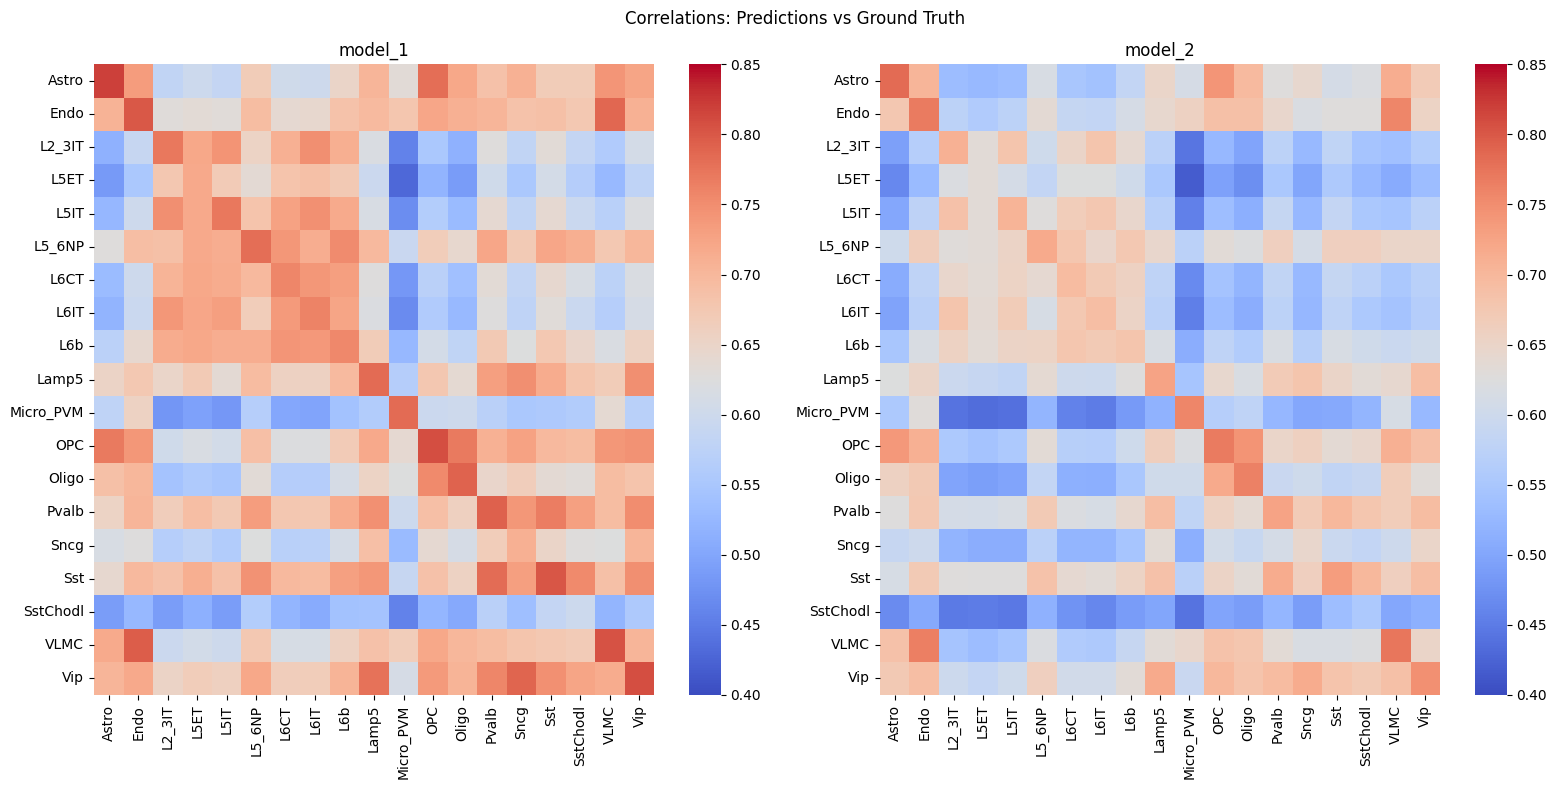
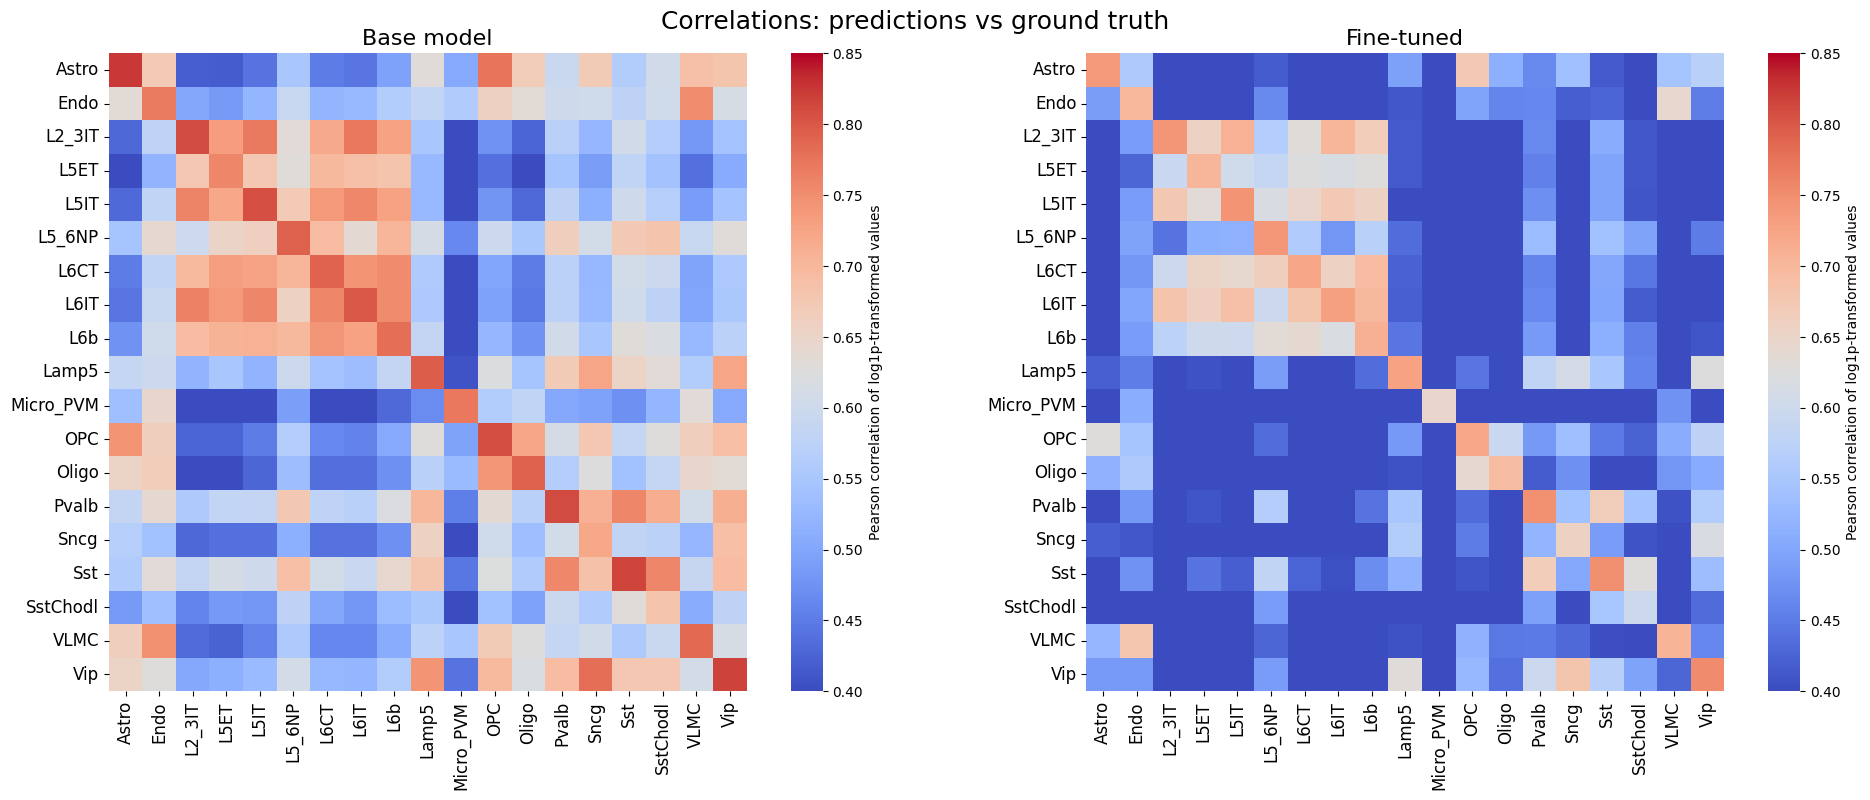
Update docstring examples & figures

diff --git a/src/crested/pl/plot_template.py b/src/crested/pl/plot_template.py
@@ -1,0 +1,82 @@
+from __future__ import annotations
+
+import matplotlib.pyplot as plt
+import numpy as np
+
+from crested.pl._utils import create_plot, render_plot
+from crested.utils._logging import log_and_raise
+
+
+def prediction(
+    prediction: np.ndarray,
+    classes: list[str],
+    plot_kws: dict | None = None,
+    ax: plt.Axes | None = None,
+    **kwargs,
+) -> tuple[plt.Figure, plt.Axes] | None:
+    """
+    Bar plot for a single prediction, comparing different classes.
+
+    Parameters
+    ----------
+    prediction
+        An array containing the prediction values for each class or cell type. It is squeezed to remove 1-wide dimensions if necessary.
+    classes
+        A list of class or cell type labels corresponding to the predictions.
+    plot_kws
+        Extra keyword arguments passed to :func:`~matplotlib.Axes.bar`. Defaults: `'alpha': 0.8`.
+    ax
+        Axis to plot values on. If not supplied, creates a figure from scratch.
+    width, height
+        Dimensions of the newly created figure if `ax=None`. Default is (18, 3).
+    kwargs
+        Additional arguments passed to :func:`~crested.pl.render_plot` to control the final plot output.
+        Please see :func:`~crested.pl.render_plot` for details.
+        Custom defaults for `prediction`: `xlabel='Cell types'`, `ylabel='Prediction'`, `grid="y"`.
+
+    See Also
+    --------
+    crested.pl.render_plot
+    crested.pl.bar.region
+    crested.pl.bar.region_predictions
+
+    Example
+    -------
+    >>> crested.pl.bar.prediction(
+    ...     pred,
+    ...     classes=list(adata.obs_names),
+    ...     title="Region chr1:3094805-3095305"
+    ... )
+    """
+    # Check inputs
+    @log_and_raise(ValueError)
+    def _check_input_params():
+        if len(prediction) != len(classes):
+            raise ValueError(
+                f"The length of prediction array ({len(prediction)}) must match the number of classes ({len(classes)})."
+            )
+
+    # Ensure the prediction array is 1-dimensional
+    prediction = prediction.squeeze()
+
+    _check_input_params()
+
+    # Set defaults
+    plot_width = kwargs.pop('width') if 'width' in kwargs else 18
+    plot_height = kwargs.pop('height') if 'height' in kwargs else 3
+    if 'xlabel' not in kwargs:
+        kwargs['xlabel'] = "Cell types"
+    if 'ylabel' not in kwargs:
+        kwargs['ylabel'] = "Prediction"
+    if 'grid' not in kwargs:
+        kwargs['grid'] = 'y'
+    plot_kws = {} if plot_kws is None else plot_kws.copy()
+    if 'alpha' not in plot_kws:
+        plot_kws['alpha'] = 0.8
+
+    # Create plot
+    fig, ax = create_plot(ax=ax, width=plot_width, height=plot_height)
+    ax.bar(classes, prediction, **plot_kws)
+
+    # Use render_plot to finalize and return the figure
+    return render_plot(fig, ax, **kwargs)

diff --git a/src/crested/pl/patterns/_enhancer_design.py b/src/crested/pl/patterns/_enhancer_design.py
@@ -144,6 +144,23 @@ def enhancer_design_steps_contribution_scores(
     kwargs
         Additional arguments passed to :func:`~crested.pl.render_plot` to control the final plot output.
         Please see :func:`~crested.pl.render_plot` for details.
+
+    See Also
+    --------
+    crested.pl.render_plot
+    crested.pl.patterns.contribution_scores
+
+    Example
+    --------
+    >>> crested.pl.patterns.enhancer_design_steps_contribution_scores(
+    ...     intermediate_results,
+    ...     scores,
+    ...     one_hot_encoded_sequences,
+    ...     labels=["L5ET"],
+    ...     highlight_kws={'facecolor': 'green', 'edgecolor': 'green', 'alpha': 0.1},
+    ... )
+
+    .. image:: ../../../../docs/_static/img/examples/patterns_enhancer_design_steps_contribution_scores.png
     """
     _check_ylim_params(global_ylim, ylim)
 
@@ -349,6 +366,21 @@ def enhancer_design_steps_predictions(
     kwargs
         Additional arguments passed to :func:`~crested.pl.render_plot` to control the final plot output.
         Please see :func:`~crested.pl.render_plot` for details.
+
+    See Also
+    --------
+    crested.pl.render_plot
+
+    Example
+    --------
+    >>> crested.pl.patterns.enhancer_design_steps_predictions(
+    ...     intermediate_results,
+    ...     target_classes="L5ET",
+    ...     obs_names=adata.obs_names,
+    ...     separate=True,
+    ... )
+
+    .. image:: ../../../../docs/_static/img/examples/patterns_enhancer_design_steps_predictions.png
     """
     if 'seperate' in kwargs:
         separate = kwargs.pop('seperate')

diff --git a/src/crested/pl/bar/_region.py b/src/crested/pl/bar/_region.py
@@ -55,10 +55,9 @@ def region_predictions(
     -------
     >>> crested.pl.bar.region_predictions(
     ...     adata,
-    ...     region='chr1:3094805-3095305'
-    ...     model_names=["model_1", "model_2"],
-    ...     sharey=False,
-    ...     title="Region chr1:3094805-3095305"
+    ...     region='chr1:3093998-3096112',
+    ...     model_names=["Base model", "Fine-tuned"],
+    ...     sharey=False
     ... )
 
     .. image:: ../../../../docs/_static/img/examples/bar_region_predictions.png
@@ -180,13 +179,10 @@ def region(
     -------
     >>> crested.pl.bar.region(
     ...     adata,
-    ...     region="chr1:3094805-3095305",
-    ...     target=None,
-    ...     xlabel="Cell type",
-    ...     ylabel="Peak height",
+    ...     region='chr1:3093998-3096112',
+    ...     target="Base model",
     ...     width=20,
-    ...     height=3,
-    ...     figtitle="chr1:3094805-3095305",
+    ...     height=3
     ... )
 
     .. image:: ../../../../docs/_static/img/examples/bar_region.png
@@ -269,9 +265,11 @@ def prediction(
     -------
     >>> crested.pl.bar.prediction(
     ...     pred,
-    ...     classes=list(adata.obs_names),
-    ...     title="Region chr1:3094805-3095305"
+    ...     classes=adata.obs_names,
+    ...     title="Region chr18:61107770-61109884",
     ... )
+
+    .. image:: ../../../../docs/_static/img/examples/bar_prediction.png
     """
     # Check inputs
     @log_and_raise(ValueError)

diff --git a/src/crested/pl/heatmap/_correlations.py b/src/crested/pl/heatmap/_correlations.py
@@ -140,7 +140,11 @@ def correlations_self(
     Examples
     --------
     >>> crested.pl.heatmap.correlations_self(
-    ...     adata, log_transform=True, title="Self correlations heatmap"
+    ...     adata,
+    ...     log_transform=True,
+    ...     vmin=0,
+    ...     vmax=1,
+    ...     title="Self correlations heatmap",
     ... )
 
     .. image:: ../../../../docs/_static/img/examples/heatmap_self_correlations.png
@@ -190,7 +194,7 @@ def correlations_predictions(
     **kwargs,
 ) -> tuple[plt.Figure, plt.Axes] | tuple[plt.Figure, list[plt.Axes]] | None:
     """
-    Plot correlation heatmaps of predictions vs ground truth or target values for different cell types.
+    Plot correlation heatmaps of predictions vs ground truth for all cell types.
 
     Parameters
     ----------
@@ -240,7 +244,7 @@ def correlations_predictions(
     ...     log_transform=True,
     ...     vmin=0.4,
     ...     vmax=0.85,
-    ...     title="Correlations: predictions vs ground truth",
+    ...     suptitle="Correlations: predictions vs ground truth",
     ... )
 
     .. image:: ../../../../docs/_static/img/examples/heatmap_correlations_predictions.png

diff --git a/src/crested/pl/locus/_track.py b/src/crested/pl/locus/_track.py
@@ -57,16 +57,26 @@ def track(
 
     Example
     --------
+    >>> chrom, start, end = 'chr18', 61010523, 61207131
+    >>> class_idx = output_names_borzoi.index('ATAC:Microglia')
     >>> crested.pl.locus.track(
-    ...     preds,
+    ...     borzoi_pred,
     ...     class_idxs=class_idx,
     ...     range=(chrom, start, end),
-    ...     title="Mouse Borzoi ATAC:MGL predictions around the FIRE enhancer",
+    ...     title="Human Borzoi microglia predictions around the FIRE enhancer",
     ... )
 
-    .. image:: ../../../../docs/_static/img/examples/locus_track.png
+    .. image:: ../../../../docs/_static/img/examples/locus_track_pred.png
 
-    # TODO: add example for bigwig import?
+    >>> bw_values, midpoints = crested.utils.read_bigwig_region(bw_path, (chrom, start, end))
+    >>> crested.pl.locus.track(
+    ...     bw_values,
+    ...     range=(chrom, start, end),
+    ...     title="Mouse Borzoi microglia values around the FIRE enhancer",
+    ... )
+
+    .. image:: ../../../../docs/_static/img/examples/locus_track_bw.png
+
     """
     # Check inputs
     @log_and_raise(ValueError)

diff --git a/src/crested/pl/locus/_locus_scoring.py b/src/crested/pl/locus/_locus_scoring.py
@@ -79,12 +79,13 @@ def locus_scoring(
     --------
     >>> crested.pl.locus.locus_scoring(
     ...     scores,
-    ...     range=(0, 1000),
-    ...     gene_start=100,
-    ...     gene_end=200,
-    ...     title=["Predictions across genomic regions", "bigWig coverage across genomic regions"],
-    ...     bigwig_values=bigwig_values,
-    ...     bigwig_midpoints=bigwig_midpoints,
+    ...     range=(min_loc, max_loc),
+    ...     gene_start=start,
+    ...     gene_end=end,
+    ...     bigwig_values=bw_values,
+    ...     bigwig_midpoints=midpoints,
+    ...     highlight_positions = [(max_loc-45000, max_loc-40000)],
+    ...     suptitle="CREsted prediction around Elavl2 gene locus for Sst"
     ... )
 
     .. image:: ../../../../docs/_static/img/examples/locus_locus_scoring.png

diff --git a/src/crested/pl/hist/_distribution.py b/src/crested/pl/hist/_distribution.py
@@ -58,7 +58,10 @@ def distribution(
     Example
     --------
     >>> crested.pl.hist.distribution(
-    ...     adata, split="test", share_y=False, class_names=["Astro", "Vip"]
+    ...     adata,
+    ...     split="test",
+    ...     sharey=False,
+    ...     class_names=["Astro", "Vip"]
     ... )
 
     .. image:: ../../../../docs/_static/img/examples/hist_distribution.png

diff --git a/src/crested/pl/patterns/_contribution_scores.py b/src/crested/pl/patterns/_contribution_scores.py
@@ -101,7 +101,7 @@ def contribution_scores(
     ...     scores, seqs_one_hot, sequence_labels, class_labels
     ... )
 
-    .. image:: ../../../../docs/_static/img/examples/contribution_scores.png
+    .. image:: ../../../../docs/_static/img/examples/patterns_contribution_scores.png
     """
     if isinstance(sequence_labels, str):
         sequence_labels = [sequence_labels]

diff --git a/src/crested/pl/violin/_correlations.py b/src/crested/pl/violin/_correlations.py
@@ -60,7 +60,7 @@ def correlations(
     ...     model_names=["Base DilatedCNN", "Fine-tuned DilatedCNN"],
     ...     split="test",
     ...     log_transform=True,
-    ...     title="Class-wise prediction vs ground truth correlations",
+    ...     title="Per-class model correlation",
     ... )
 
     .. image:: ../../../../docs/_static/img/examples/violin_correlations.png

diff --git a/src/crested/pl/scatter/_class_density.py b/src/crested/pl/scatter/_class_density.py
@@ -108,7 +108,7 @@ def class_density(
     >>> crested.pl.scatter.class_density(
     ...     adata,
     ...     class_name="Astro",
-    ...     model_names=["model1", "model2"],
+    ...     model_names=["Base model", "Fine-tuned"],
     ...     split="test",
     ...     log_transform=True,
     ... )

diff --git a/src/crested/pl/bar/_normalization_weights.py b/src/crested/pl/bar/_normalization_weights.py
@@ -41,8 +41,6 @@ def normalization_weights(
     -------
     >>> crested.pl.bar.normalization_weights(
     ...     adata,
-    ...     xlabel="Cell type",
-    ...     ylabel="Scaling factor",
     ...     width=20,
     ...     height=3,
     ...     title="Normalization scaling factors",
